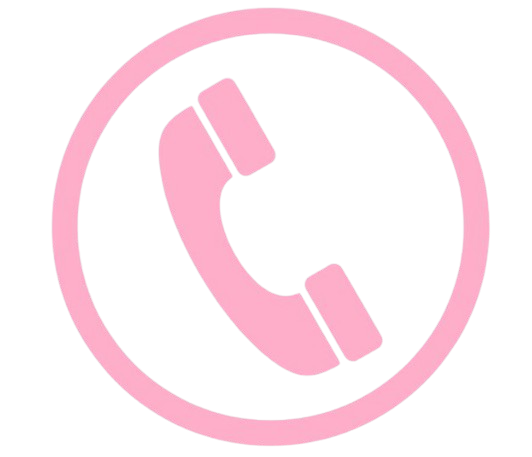
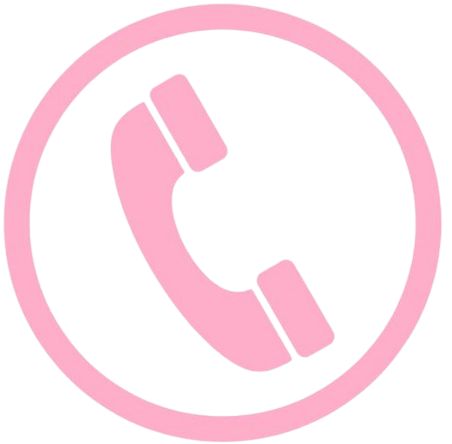
added more css and added a gif and big heading for the start of the page

diff --git a/static/css/style.css b/static/css/style.css
@@ -64,11 +64,39 @@ body {
     padding-bottom: 80px;
 }
 
+.hero-heading {
+    text-align: center;
+    margin-bottom: 50px;
+}
+
+.hero-heading h1 {
+    font-family: 'Dancing Script', cursive;
+    font-size: 72px;
+    color: #5c3a4d;
+    margin-bottom: 10px;
+}
+
+.heading-gif {
+    width: 280px;
+    opacity: 0.85;
+    pointer-events: none;
+}
+
+.hero-heading p {
+    color: #d94f91;
+    font-size: 24px;
+    margin-bottom: 25px;
+}
+
+.hero-divider {
+    width: 40px;
+    margin-top: 15px;
+}
 
 .card {
     width: 80%;
     max-width: 700px;
-    margin: 100px auto;
+    margin: 80px auto;
     padding: 40px;
     background: white;
     border-radius: 25px;
@@ -128,6 +156,17 @@ body {
 
 .contact-card p {
     margin: 0;
+    color: #d94f91;
+}
+
+.contact-card a {
+    text-decoration: none;
+    color: #d94f91;
+    font-weight: 600;
+    transition:
+        color 0.3s ease,
+        transform 0.3s ease;
+    display: inline-block;
 }
 
 .text {

diff --git a/templates/home.html b/templates/home.html
@@ -6,6 +6,11 @@
 {% block content %}
 
 <section class="hero">
+    <div class="hero-heading">
+        <h1>Welcome to my Portfolio</h1>
+        <p>A soft little space for my projects, learning, and code.</p>
+        <img src="{% static 'images/sakura-gif.gif' %}" class="heading-gif">
+    </div>
     <div class="card">
 
         <img src="{% static 'images/headshot.jpeg' %}" class="profile-pic">
@@ -44,7 +49,7 @@
                 <img src="{% static 'images/gmail_icon.png' %}" class="social-icon">
                 <div>
                     <h3>Email</h3>
-                    <p>[email redacted]</p>
+                    <p>[email redacted]</p>
                 </div>
             </div>
 
@@ -52,7 +57,9 @@
                 <img src="{% static 'images/github_icon.png' %}" class="social-icon">
                 <div>
                     <h3>GitHub</h3>
-                    <p>n/a</p>
+                    <a href="https://github.com/nicoleatvare">
+                        View My Projects →
+                    </a>
                 </div>
             </div>
 
@@ -60,7 +67,9 @@
                 <img src="{% static 'images/linkedin_icon.png' %}" class="social-icon">
                 <div>
                     <h3>Linkedin</h3>
-                    <p>n/a</p>
+                    <a href="https://www.linkedin.com/in/nikola-atvare-003313368/">
+                        View My Profile →
+                    </a>
                 </div>
             </div>
 

diff --git a/templates/base.html b/templates/base.html
@@ -4,6 +4,9 @@
 <html>
 <head>
     <title>{% block title %}My Portfolio{% endblock %}</title>
+    <link rel="preconnect" href="https://fonts.googleapis.com">
+    <link rel="preconnect" href="https://fonts.gstatic.com" crossorigin>
+    <link href="https://fonts.googleapis.com/css2?family=Dancing+Script:wght@700&family=Poppins:wght@300;400;500;600&display=swap" rel="stylesheet">
     <link rel="stylesheet" href="{% static 'css/style.css' %}">
 </head>
 